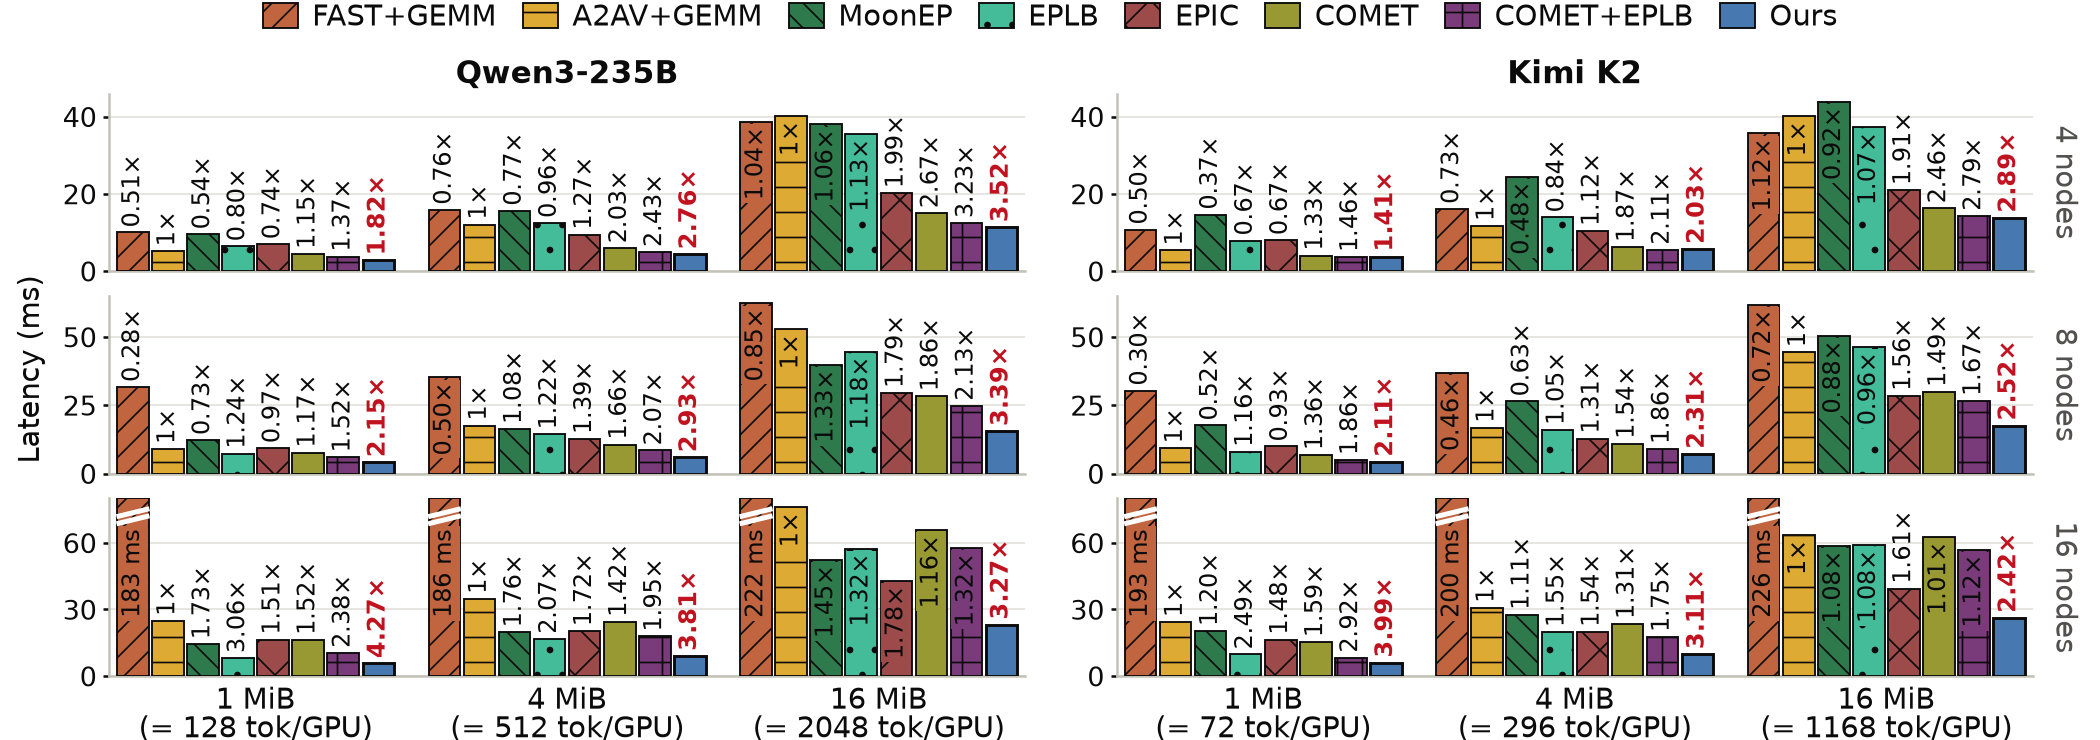
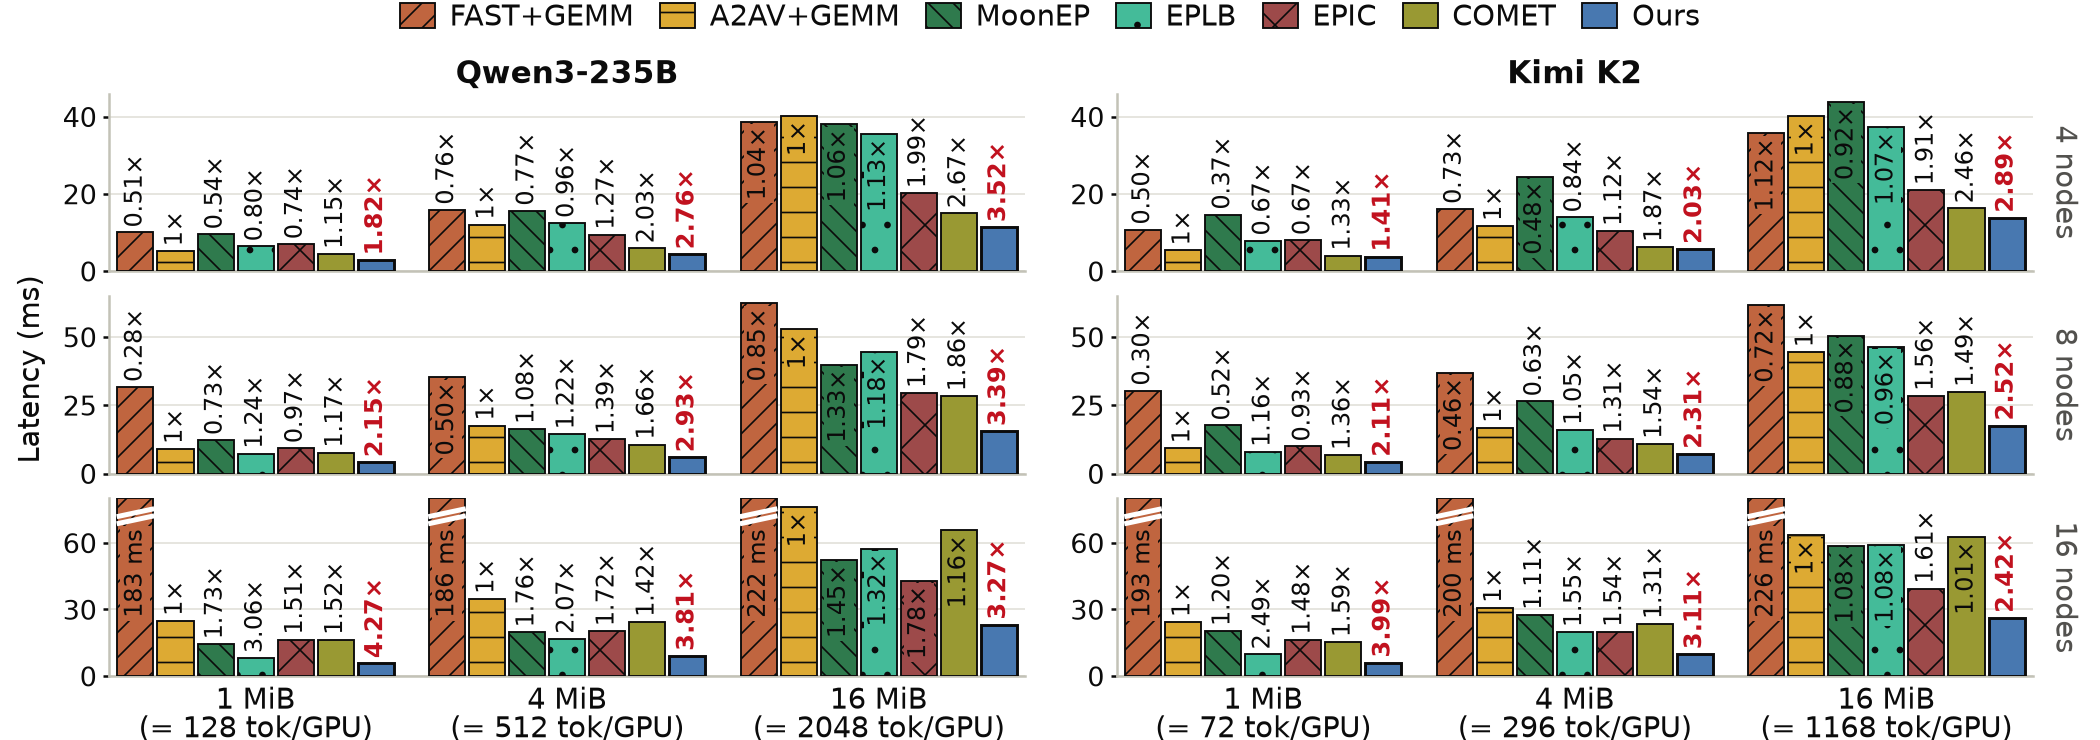
main_perf_v4: INCLUDE_COMET_EPLB knob (default off, seven bars); re-rendered

diff --git a/figs/main_perf_v4/make_figure.py b/figs/main_perf_v4/make_figure.py
@@ -23,6 +23,9 @@ CONFIG = dict(
     BUDGETS=[1, 4, 16],                       # MiB, group order left->right
     ROWS=["4", "8", "16"],                    # topology per subfigure ROW (top->bottom)
     COLS=["Qwen", "K2"],                      # model per subfigure COLUMN (left->right)
+    # v4 (2026-09-25, user ruling): the COMET+EPLB bar is an explicit knob,
+    # DEFAULT OFF. INCLUDE_COMET_EPLB=True restores v3's eight-bar layout.
+    INCLUDE_COMET_EPLB=False,
     SYSTEMS=[                                 # fixed bar order (SPEC 2.1; v3: +comet_eplb)
         "fast_gemm", "nvshmem_gemm", "moonep", "eplb", "epic", "comet",
         "comet_eplb", "OURS",
@@ -140,6 +143,9 @@ CONFIG = dict(
     VARIANTS=[("main_perf_v4_samebinary", {"comet": "comet_v3anchor"})],
 )
 # =============================================================================
+
+if not CONFIG.get("INCLUDE_COMET_EPLB", False):
+    CONFIG["SYSTEMS"] = [s for s in CONFIG["SYSTEMS"] if s != "comet_eplb"]
 
 HERE = os.path.dirname(os.path.abspath(__file__))
 

diff --git a/figs/main_perf_v4/README.md b/figs/main_perf_v4/README.md
@@ -32,6 +32,15 @@ fused capsules (mean over reps, flag `b64_fused_conn24_20260925…`, not plotted
 candidate-campaign row (not plotted). The legacy forced-swap arm (v3's `ours12_dispatch`) is
 retired from main perf; `ours1_tokencomm` and `ours2_nooverlap` are not candidates in v4.
 
+## COMET+EPLB knob (user ruling 2026-09-25)
+
+`make_figure.py` `CONFIG["INCLUDE_COMET_EPLB"]` — **default `False`**: the v4 renders carry the seven
+bars of `figs/main_perf` (6 baselines + Ours). Set it to `True` to restore v3's eighth bar
+(COMET+EPLB, deep plum, between COMET and Ours). With the bar ON, Ours is not the fastest at 4n K2
+b1/b4 (0.97x / 0.96x vs COMET+EPLB) and leads by 1.04x at 4n K2 b16; everywhere else Ours leads
+by 1.09–1.84x (handoff 42 §12 note). The `figure_src.csv` rows `comet_eplb` / `comet_v3anchor`
+stay in the file either way.
+
 ## Files
 
 - `build_figure_src_v4.py` — regenerates `figure_src.csv` from v3 + the capsules (run from anywhere).
